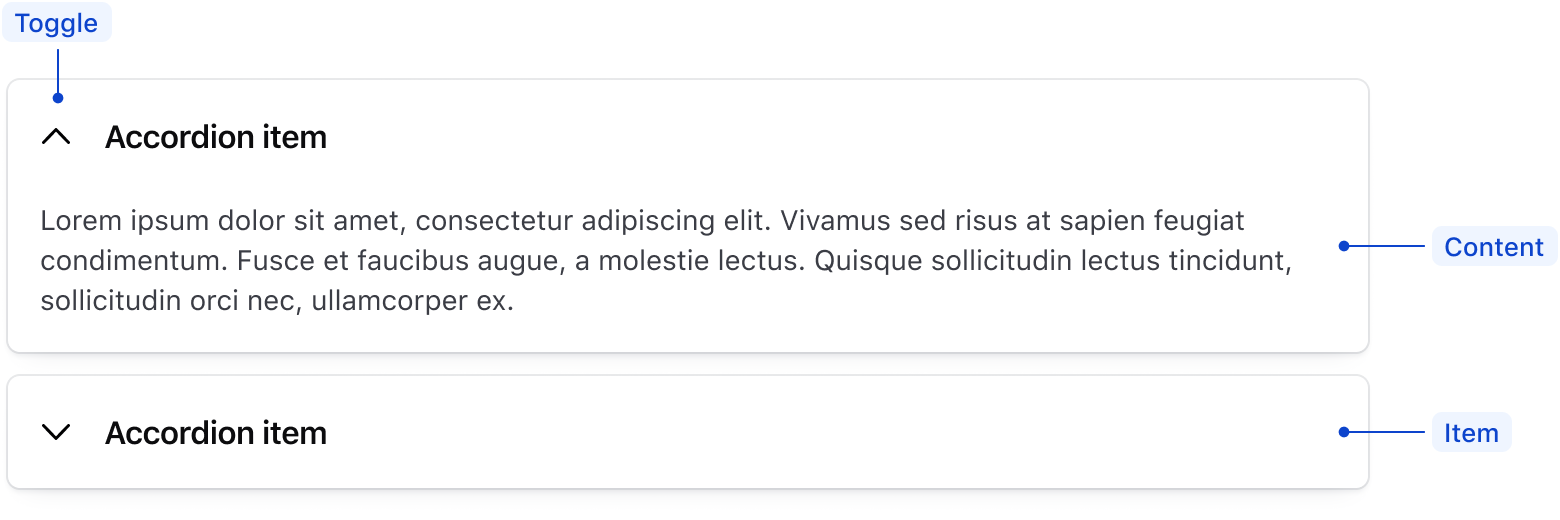
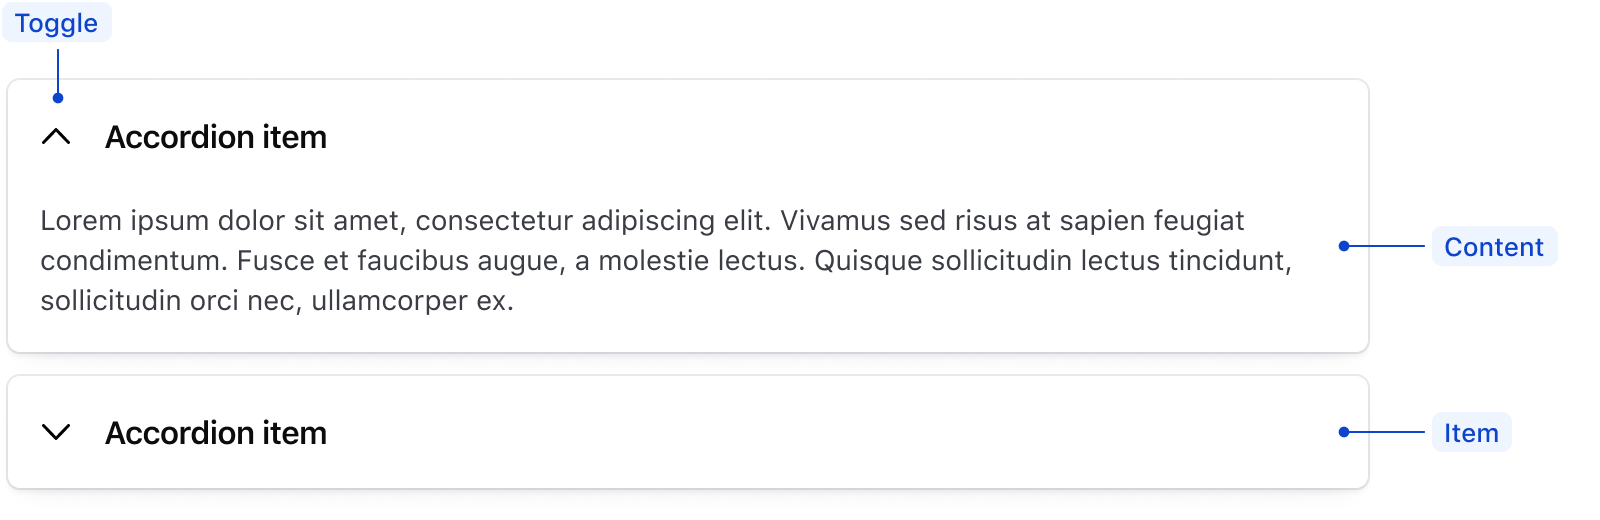
Add states

diff --git a/website/docs/components/accordion/partials/specifications/anatomy.md b/website/docs/components/accordion/partials/specifications/anatomy.md
@@ -1,7 +1,7 @@
 ## Anatomy
 
 <!-- image then table -->
-![Anatomy of accordion](/assets/components/accordion/accordion-anatomy.png)
+![Anatomy of accordion](/assets/components/accordion/accordion-anatomy.png =800x*)
 
 <!-- this is just an example, refer to other components to see how to fill this table -->
 | Element          | Usage                                           |

diff --git a/website/docs/components/accordion/partials/specifications/states.md b/website/docs/components/accordion/partials/specifications/states.md
@@ -1,2 +1,7 @@
-<!-- populate with examples and documentation of interactive states -->
-<!-- this can usually be found in the design guidelines -->
+## States
+
+![Example of accordion states](/assets/components/accordion/accordion-states.png =800x*)
+
+### isOpen
+
+![Example of accordion states when is open](/assets/components/accordion/accordion-states-open.png =800x*)
